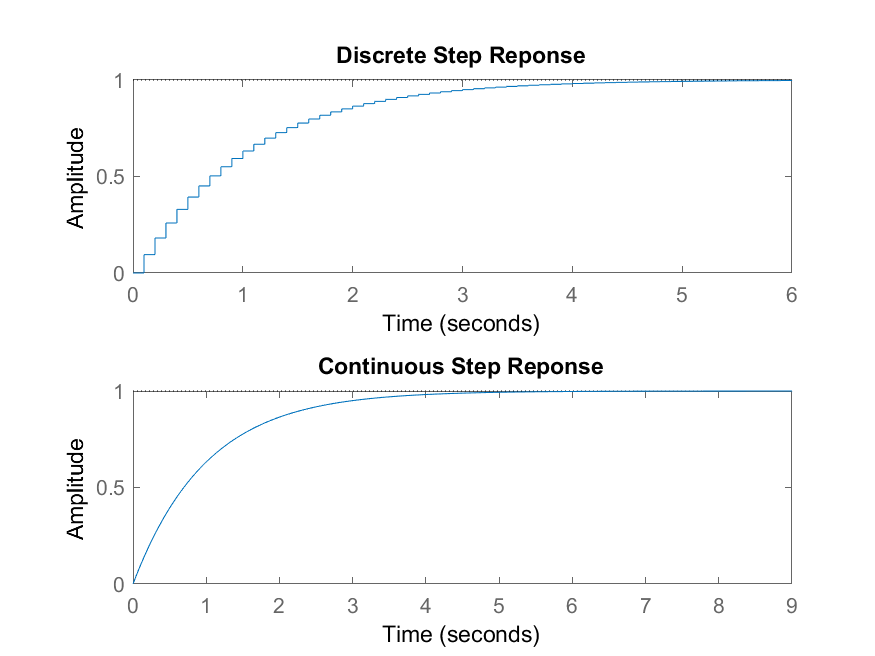
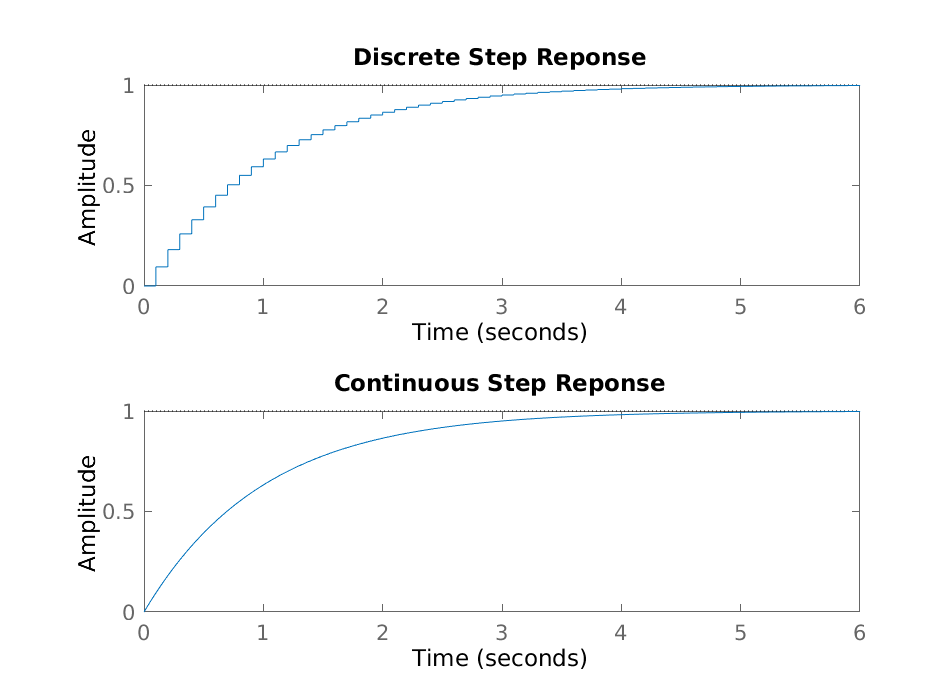
Friday!!

diff --git a/Homework 1/SIS_21-22_hwk1_material/material_hw1/part03/part03.m b/Homework 1/SIS_21-22_hwk1_material/material_hw1/part03/part03.m
@@ -2,16 +2,16 @@
 % Kagan Erunsal, kagan.erunsal@epfl.ch, Oct 2021
 
 %% Q11 (use ilaplace())
-syms C_sym R_sym s_sym
+syms C_sym R_sym s_sym  
 sympref('HeavisideAtOrigin',1);
 assume(s_sym >0);
 H2 = 1/(s_sym*C_sym*R_sym+ 1);
-h2 = ilaplace(H2, s_sym);
+h2 = ilaplace(H2, s_sym); 
 simplify(h2);
 
 %% Q12
 R = 1;
-C = 1;
+C = 1; 
 H1 = R/(s_sym*C*R + 1);
 
 % a (use tf() and step())
@@ -21,18 +21,17 @@ H1_tf = tf(R, [C*R, 1]);
 step(H1_tf)
 title("Step Response Using tf() and step()");
 
-
 % b (use int())
-syms t_sym
+syms t_sym 
 u_sym = heaviside(t_sym);
 sympref('HeavisideAtOrigin',1);
 
 h1 = exp(-t_sym/C*R)*u_sym/C;
 
-H1_int = int(h1, t_sym);
+H1_int = int(h1, t_sym); 
 
 subplot(2,1,2)
-fplot(t_sym,H1_int, [0, 10])
+fplot(t_sym,H1_int, [0, 9])
 title("Step Response Using int()");
 xlabel("Time (seconds)");
 ylabel("Amplitude");
@@ -41,7 +40,7 @@ saveas(figure(1), "Q12_Step_response", "png");
 %% Q13
 % System 1
 R = 1;
-C = 5;
+C = 5; 
 H1_tf2 = tf(R, [C*R, 1]);
 
 figure(2)
@@ -59,11 +58,10 @@ title('Step Response System 2');
 saveas(figure(2), "Q13", "png");
 
 
-
 %% Q14 (use c2d())
-ts = 0.1; % sampling time
-R = 1;
-C = 1;
+ts = 0.1; % sampling time 
+R = 1; 
+C = 1; 
 H1_tf4 = tf(R, [C*R, 1]);
 
 H1_tf4_z = c2d(H1_tf4, ts, 'zoh');
@@ -74,6 +72,7 @@ title('Discrete Step Reponse')
 
 subplot(2,1,2)
 step(H1_tf4)
+xlim([0,6]);
 title('Continuous Step Reponse')
 saveas(figure(3), "Q14_Step", "png");
 
@@ -91,10 +90,10 @@ H1_sym = simplify(0.09516/(z_sym - 0.9048),'Steps',2);
 step_fct = heaviside(t_sym);
 S = ztrans(step_fct, t_sym, z_sym);
 
-x_z_sym = S*H1_sym ;
+x_z_sym = S*H1_sym ; 
 
 % Back to time domain
-x_sym = iztrans(x_z_sym, z_sym, t_sym);
+x_sym = iztrans(x_z_sym, z_sym, t_sym); 
 
 simplify(x_sym);
 
@@ -107,10 +106,10 @@ saveas(figure(4), "Q15_Step_Discrete", "png");
 
 
 %% Q16 (use fft())
-n = 0:1:100;
+n = 0:1:100; 
 
-x_n = 10.5042-9.5042*(0.9048).^n ;
-
+x_n = 10.5042-9.5042*(0.9048).^n ; 
+ 
 
 figure(5)
 
@@ -127,13 +126,14 @@ X_n = fft(x_n,N);
 abs_X2 = abs(X_n);
 fs = Fs*(-N/2:1:N/2-1)/N;
 
-%Plot FFT
+%Plot FFT 
 stem(fs,fftshift(abs_X2), '.')
 grid on
 hold on
 xlabel('Frequency [Hz]')
 ylabel('Amplitude')
 title('FFT of Step Response')
+
 
 saveas(figure(5), "Q16_FFT", "png");
 
@@ -149,13 +149,12 @@ xlim([0 11]);
 title('Heater Input')
 xlabel('Time-stamps')
 ylabel('Heater Data')
-
 saveas(figure(6), "Q17_HeaterData", "png");
 
 R = 1;
-C = 1;
+C = 1; 
 x_n_heat = tf(R, [C*R, 1]);
 
 figure(7)
-lsim(x_n_heat, heater_u, heater_n)
+lsim(x_n_heat, heater_u, heater_n) 
 saveas(figure(7), "Q17_HeaterData_lsim", "png");
